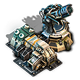
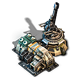
* adds nod base images

diff --git a/src/de/ganicoga/client/model/StructureDef.java b/src/de/ganicoga/client/model/StructureDef.java
@@ -12,39 +12,55 @@ public enum StructureDef {
 			new ImageResource[] { INSTANCE.crystalField(), }, 2),
 
 	HARVESTER(new String[] { "Harvester" }, new String[] { "foobar" },
-			new ImageResource[] { INSTANCE.harvester_gdi() }, 3), HARVESTER_TIBERIUM(
+			new ImageResource[] { INSTANCE.harvester_gdi(),
+					INSTANCE.harvester_nod() }, 3), HARVESTER_TIBERIUM(
 			new String[] { "Harvester" }, new String[] { "foobar" },
-			new ImageResource[] { INSTANCE.harvesterTiberium_gdi() }, 4), HARVESTER_CRYSTAL(
+			new ImageResource[] { INSTANCE.harvesterTiberium_gdi(),
+					INSTANCE.harvesterTiberium_nod() }, 4), HARVESTER_CRYSTAL(
 			new String[] { "Harvester" }, new String[] { "foobar" },
-			new ImageResource[] { INSTANCE.harvesterCrystal_gdi() }, 5), CONSTRUCTION_YARD(
+			new ImageResource[] { INSTANCE.harvesterCrystal_gdi(),
+					INSTANCE.harvesterCrystal_nod() }, 5), CONSTRUCTION_YARD(
 			new String[] { "Construction Yard" }, new String[] { "foobar" },
-			new ImageResource[] { INSTANCE.constructionYard_gdi() }, 6), POWER_PLANT(
+			new ImageResource[] { INSTANCE.constructionYard_gdi(),
+					INSTANCE.constructionYard_nod() }, 6), POWER_PLANT(
 			new String[] { "Power Plant" }, new String[] { "foobar" },
-			new ImageResource[] { INSTANCE.powerPlant_gdi() }, 7), REFINERY(
+			new ImageResource[] { INSTANCE.powerPlant_gdi(),
+					INSTANCE.powerPlant_nod() }, 7), REFINERY(
 			new String[] { "Refinery" }, new String[] { "foobar" },
-			new ImageResource[] { INSTANCE.refinery_gdi() }, 8), SILO(
+			new ImageResource[] { INSTANCE.refinery_gdi(),
+					INSTANCE.refinery_nod() }, 8), SILO(
 			new String[] { "Silo" }, new String[] { "foobar" },
-			new ImageResource[] { INSTANCE.silo_gdi() }, 9), ACCUMULATOR(
+			new ImageResource[] { INSTANCE.silo_gdi(), INSTANCE.silo_nod() }, 9), ACCUMULATOR(
 			new String[] { "Accumulator" }, new String[] { "foobar" },
-			new ImageResource[] { INSTANCE.accumulator_gdi() }, 10), COMMAND_CENTER(
+			new ImageResource[] { INSTANCE.accumulator_gdi(),
+					INSTANCE.accumulator_nod() }, 10), COMMAND_CENTER(
 			new String[] { "Command Center" }, new String[] { "foobar" },
-			new ImageResource[] { INSTANCE.commandCenter_gdi() }, 11), FACTORY(
+			new ImageResource[] { INSTANCE.commandCenter_gdi(),
+					INSTANCE.commandCenter_nod() }, 11), FACTORY(
 			new String[] { "Factory" }, new String[] { "foobar" },
-			new ImageResource[] { INSTANCE.factory_gdi() }, 12), BARRACKS(
+			new ImageResource[] { INSTANCE.factory_gdi(),
+					INSTANCE.factory_nod() }, 12), BARRACKS(
 			new String[] { "Barracks" }, new String[] { "foobar" },
-			new ImageResource[] { INSTANCE.barracks_gdi() }, 13), AIR_FIELD(
+			new ImageResource[] { INSTANCE.barracks_gdi(),
+					INSTANCE.barracks_nod() }, 13), AIR_FIELD(
 			new String[] { "Airfield" }, new String[] { "foobar" },
-			new ImageResource[] { INSTANCE.airField_gdi() }, 14), DEFENSE_HQ(
+			new ImageResource[] { INSTANCE.airField_gdi(),
+					INSTANCE.airField_nod() }, 14), DEFENSE_HQ(
 			new String[] { "Defense Headquarter" }, new String[] { "foobar" },
-			new ImageResource[] { INSTANCE.defenseHQ_gdi() }, 15), DEFENSE_FACILITY(
+			new ImageResource[] { INSTANCE.defenseHQ_gdi(),
+					INSTANCE.defenseHQ_nod() }, 15), DEFENSE_FACILITY(
 			new String[] { "Defense Facility" }, new String[] { "foobar" },
-			new ImageResource[] { INSTANCE.defenseFacility_gdi() }, 16), SKY_SUPPORT(
-			new String[] { "Skystrike Support" }, new String[] { "foobar" },
-			new ImageResource[] { INSTANCE.skySupport_gdi() }, 17), FALCON_SUPPORT(
-			new String[] { "Falcon Support" }, new String[] { "foobar" },
-			new ImageResource[] { INSTANCE.falconSupport_gdi() }, 18), ION_SUPPORT(
-			new String[] { "Ion Support" }, new String[] { "foobar" },
-			new ImageResource[] { INSTANCE.ionSupport_gdi() }, 19),
+			new ImageResource[] { INSTANCE.defenseFacility_gdi(),
+					INSTANCE.defenseFacility_nod() }, 16), SKY_SUPPORT(
+			new String[] { "Skystrike Support", "Blade of Kane" }, new String[] { "foobar" },
+			new ImageResource[] { INSTANCE.infantrySupport_gdi(),
+					INSTANCE.infantrySupport_nod() }, 17), FALCON_SUPPORT(
+			new String[] { "Falcon Support", "Eye of Kane" }, new String[] { "foobar" },
+			new ImageResource[] { INSTANCE.airSupport_gdi(),
+					INSTANCE.airSupport_nod() }, 18), ION_SUPPORT(
+			new String[] { "Ion Support", "Fist of Kane" }, new String[] { "foobar" },
+			new ImageResource[] { INSTANCE.vehicleSupport_gdi(),
+					INSTANCE.vehicleSupport_nod() }, 19),
 
 	WALL(new String[] { "Wall" }, new String[] { "foobar" },
 			new ImageResource[] { INSTANCE.wall_gdi() }, 20), MG_NEST(
@@ -67,15 +83,15 @@ public enum StructureDef {
 			new String[] { "Sniper Team" }, new String[] { "foobar" },
 			new ImageResource[] { INSTANCE.sniperTeam_gdi() }, 29), FLAK(
 			new String[] { "Flak" }, new String[] { "foobar" },
-			new ImageResource[] { INSTANCE.ionSupport_gdi() }, 30), ZONE_TROOPER(
+			new ImageResource[] { INSTANCE.vehicleSupport_gdi() }, 30), ZONE_TROOPER(
 			new String[] { "Zone Trooper" }, new String[] { "foobar" },
 			new ImageResource[] { INSTANCE.zoneTrooper_gdi() }, 31), WATCHTOWER(
 			new String[] { "Watchtower" }, new String[] { "foobar" },
-			new ImageResource[] { INSTANCE.ionSupport_gdi() }, 32), TITAN_ARTILLERY(
+			new ImageResource[] { INSTANCE.vehicleSupport_gdi() }, 32), TITAN_ARTILLERY(
 			new String[] { "Titan Artillery" }, new String[] { "foobar" },
 			new ImageResource[] { INSTANCE.titanArty_gdi() }, 33), SAM_SITE(
 			new String[] { "SAM Site" }, new String[] { "foobar" },
-			new ImageResource[] { INSTANCE.ionSupport_gdi() }, 34),
+			new ImageResource[] { INSTANCE.vehicleSupport_gdi() }, 34),
 
 	WOODS(new String[] { "Woods" }, new String[] { "foobar" },
 			new ImageResource[] { INSTANCE.wood() }, 35), OIL_SLICK(

diff --git a/src/de/ganicoga/client/Resources.java b/src/de/ganicoga/client/Resources.java
@@ -62,87 +62,87 @@ public interface Resources extends ClientBundle {
 
 	@Source("resources/base/gdi/ac.png")
 	ImageResource accumulator_gdi();
-	@Source("resources/base/gdi/ac.png")
+	@Source("resources/base/nod/ac.png")
 	ImageResource accumulator_nod();
 
 	@Source("resources/base/gdi/af.png")
 	ImageResource airField_gdi();
-	@Source("resources/base/gdi/af.png")
+	@Source("resources/base/nod/af.png")
 	ImageResource airField_nod();
 
 	@Source("resources/base/gdi/br.png")
 	ImageResource barracks_gdi();
-	@Source("resources/base/gdi/br.png")
+	@Source("resources/base/nod/br.png")
 	ImageResource barracks_nod();
 
 	@Source("resources/base/gdi/cc.png")
 	ImageResource commandCenter_gdi();
-	@Source("resources/base/gdi/cc.png")
+	@Source("resources/base/nod/cc.png")
 	ImageResource commandCenter_nod();
 
 	@Source("resources/base/gdi/cy.png")
 	ImageResource constructionYard_gdi();
-	@Source("resources/base/gdi/cy.png")
+	@Source("resources/base/nod/cy.png")
 	ImageResource constructionYard_nod();
 
 	@Source("resources/base/gdi/df.png")
 	ImageResource defenseFacility_gdi();
-	@Source("resources/base/gdi/df.png")
+	@Source("resources/base/nod/df.png")
 	ImageResource defenseFacility_nod();
 
 	@Source("resources/base/gdi/dhq.png")
 	ImageResource defenseHQ_gdi();
-	@Source("resources/base/gdi/dhq.png")
+	@Source("resources/base/nod/dhq.png")
 	ImageResource defenseHQ_nod();
 
-	@Source("resources/base/gdi/fs.png")
-	ImageResource falconSupport_gdi();
-	@Source("resources/base/gdi/fs.png")
-	ImageResource falconSupport_nod();
+	@Source("resources/base/gdi/as.png")
+	ImageResource airSupport_gdi();
+	@Source("resources/base/nod/as.png")
+	ImageResource airSupport_nod();
 
 	@Source("resources/base/gdi/hv.png")
 	ImageResource harvester_gdi();
-	@Source("resources/base/gdi/hv.png")
+	@Source("resources/base/nod/hv.png")
 	ImageResource harvester_nod();
 
 	@Source("resources/base/gdi/hvc.png")
 	ImageResource harvesterCrystal_gdi();
-	@Source("resources/base/gdi/hvc.png")
+	@Source("resources/base/nod/hvc.png")
 	ImageResource harvesterCrystal_nod();
 
 	@Source("resources/base/gdi/hvt.png")
 	ImageResource harvesterTiberium_gdi();
-	@Source("resources/base/gdi/hvt.png")
+	@Source("resources/base/nod/hvt.png")
 	ImageResource harvesterTiberium_nod();
 
-	@Source("resources/base/gdi/is.png")
-	ImageResource ionSupport_gdi();
-	@Source("resources/base/gdi/is.png")
-	ImageResource ionSupport_nod();
+	@Source("resources/base/gdi/vs.png")
+	ImageResource vehicleSupport_gdi();
+	@Source("resources/base/nod/vs.png")
+	ImageResource vehicleSupport_nod();
 
 	@Source("resources/base/gdi/pp.png")
 	ImageResource powerPlant_gdi();
-	@Source("resources/base/gdi/pp.png")
+	@Source("resources/base/nod/pp.png")
 	ImageResource powerPlant_nod();
 
 	@Source("resources/base/gdi/rf.png")
 	ImageResource refinery_gdi();
-	@Source("resources/base/gdi/rf.png")
+	@Source("resources/base/nod/rf.png")
 	ImageResource refinery_nod();
 
 	@Source("resources/base/gdi/s.png")
 	ImageResource silo_gdi();
-	@Source("resources/base/gdi/s.png")
+	@Source("resources/base/nod/s.png")
 	ImageResource silo_nod();
 	
-	@Source("resources/base/gdi/ss.png")
-	ImageResource skySupport_gdi();
-	@Source("resources/base/gdi/ss.png")
-	ImageResource skySupport_nod();
+	@Source("resources/base/gdi/is.png")
+	ImageResource infantrySupport_gdi();
+	@Source("resources/base/nod/is.png")
+	ImageResource infantrySupport_nod();
 
 	@Source("resources/base/gdi/wf.png")
 	ImageResource factory_gdi();
-	@Source("resources/base/gdi/wf.png")
+	@Source("resources/base/nod/wf.png")
 	ImageResource factory_nod();
 	
 	
